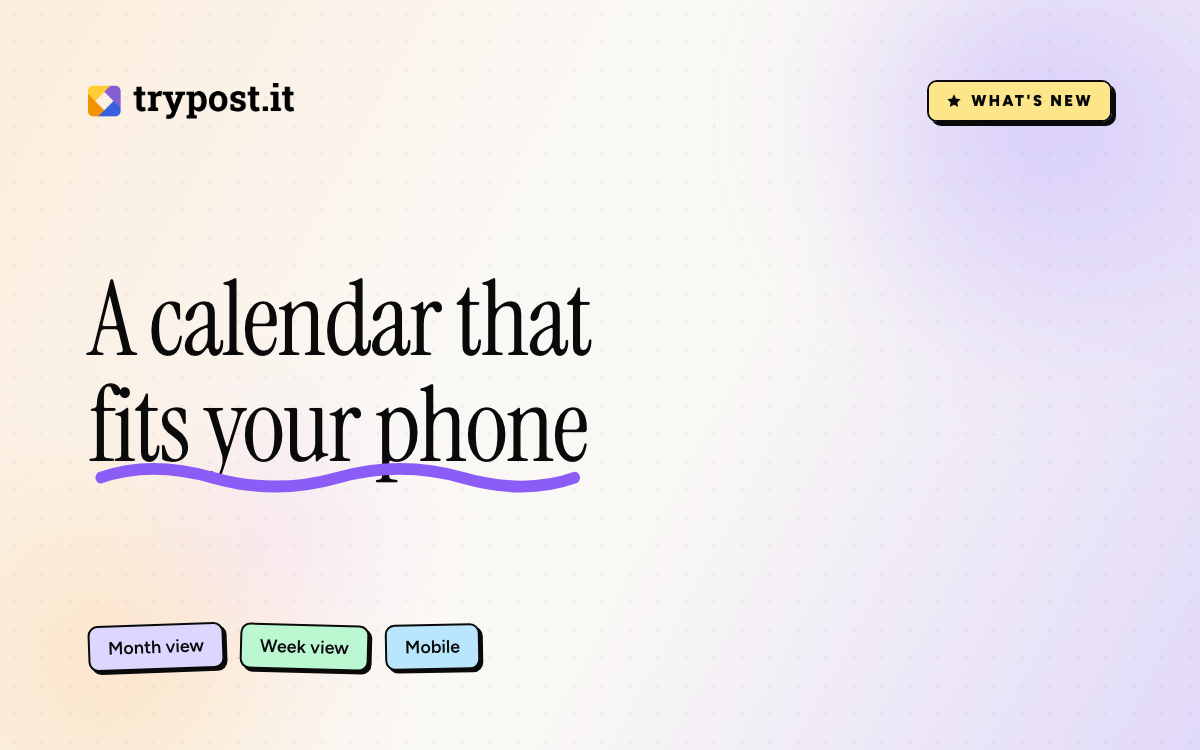
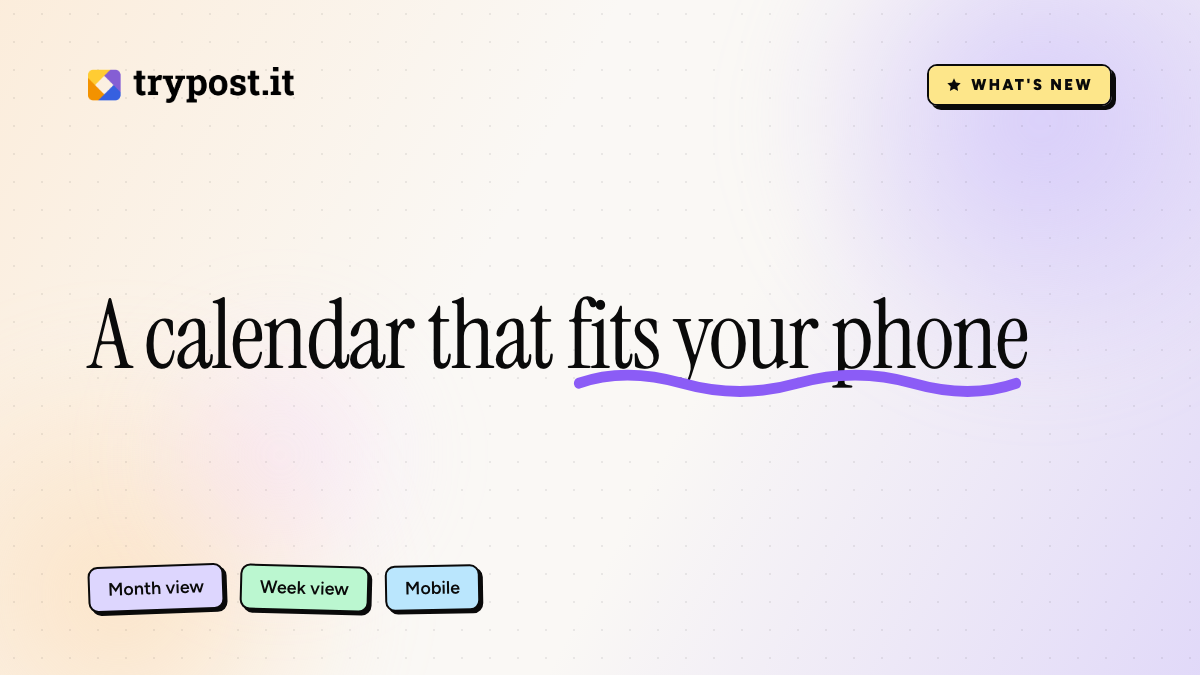
Make changelog covers 16:9
Render covers at 1200x675, show them in aspect-video slots, and have
changelog:sync refuse a cover that is not 16:9. The /changelog command
spells out the cover size and checks.

diff --git a/.claude/release-assets/changelog-cover.template.html b/.claude/release-assets/changelog-cover.template.html
@@ -6,7 +6,7 @@
 <link rel="preconnect" href="https://fonts.gstatic.com" crossorigin />
 <link href="https://fonts.googleapis.com/css2?family=Figtree:wght@300..900&family=Instrument+Serif:ital@0;1&family=JetBrains+Mono:wght@400;500;700&display=swap" rel="stylesheet" />
 <style>
-  /* TryPost changelog cover (1200x750, the 8:5 card/modal slot). Same brand
+  /* TryPost changelog cover (1200x675, the 16:9 card/modal slot). Same brand
      system as the release thumbnail; larger headline, no version.
      TryPost brand thumbnail — mirrors the marketing-site hero / OG image:
      warm cream + ink + signature violet, soft peach→lavender wash, ink
@@ -14,7 +14,7 @@
      and ink-bordered sticker cards with Gumroad-style solid offset shadows.
      Tokens from trypost-site assets/css/tailwind.css. */
   * { margin: 0; padding: 0; box-sizing: border-box; }
-  html, body { width: 1200px; height: 750px; }
+  html, body { width: 1200px; height: 675px; }
   body {
     font-family: 'Figtree', ui-sans-serif, system-ui, sans-serif;
     position: relative;
@@ -48,7 +48,7 @@
   }
   .frame {
     position: relative; z-index: 1;
-    height: 100%; padding: 80px 88px;
+    height: 100%; padding: 64px 88px;
     display: flex; flex-direction: column; justify-content: space-between;
   }
   .top { display: flex; align-items: center; justify-content: space-between; }
@@ -80,7 +80,7 @@
   .body { max-width: 1000px; }
   h1 {
     font-family: 'Instrument Serif', Georgia, serif;
-    font-weight: 400; font-size: 104px; line-height: 1.02;
+    font-weight: 400; font-size: 96px; line-height: 1.02;
     letter-spacing: -0.02em; color: #0a0a0a; text-wrap: balance;
   }
   /* Emphasis phrase carrying the hand-drawn squiggle. */

diff --git a/resources/js/components/changelog/ChangelogDialog.vue b/resources/js/components/changelog/ChangelogDialog.vue
@@ -135,7 +135,7 @@ watch(activeEntry, (entry) => {
                 <img
                     :src="activeEntry.cover_url"
                     alt=""
-                    class="aspect-[8/5] w-full rounded-xl object-cover"
+                    class="aspect-video w-full rounded-xl object-cover"
                 />
                 <div class="flex flex-col gap-1">
                     <div
@@ -233,7 +233,7 @@ watch(activeEntry, (entry) => {
                             <img
                                 :src="entry.cover_url"
                                 alt=""
-                                class="aspect-[8/5] w-36 shrink-0 rounded-lg object-cover"
+                                class="aspect-video w-36 shrink-0 rounded-lg object-cover"
                             />
                         </button>
                     </div>

diff --git a/resources/js/components/changelog/ChangelogCard.vue b/resources/js/components/changelog/ChangelogCard.vue
@@ -35,7 +35,7 @@ const openLatestEntry = (): void => {
                 <img
                     :src="entry.cover_url"
                     alt=""
-                    class="aspect-[8/5] w-full object-cover transition-transform duration-300 ease-out motion-safe:group-hover/changelog:scale-105"
+                    class="aspect-video w-full object-cover transition-transform duration-300 ease-out motion-safe:group-hover/changelog:scale-105"
                     data-testid="changelog-card-cover"
                 />
                 <span

diff --git a/tests/Feature/Commands/SyncChangelogTest.php b/tests/Feature/Commands/SyncChangelogTest.php
@@ -5,6 +5,7 @@ declare(strict_types=1);
 use App\Enums\Changelog\Tag;
 use App\Models\ChangelogEntry;
 use App\Models\ChangelogEntryView;
+use Illuminate\Http\UploadedFile;
 use Illuminate\Support\Facades\File;
 use Illuminate\Support\Facades\Storage;
 use Illuminate\Support\Str;
@@ -96,6 +97,7 @@ test('an invalid entry fails the sync, names its folder and writes nothing', fun
     'unknown tag' => [fn (string $folder) => File::put("{$folder}/entry.md", "---\ntitle: Second\ndate: 2026-10-02\ntags: [new, hot]\n---\n\nBody.\n")],
     'repeated tag' => [fn (string $folder) => File::put("{$folder}/entry.md", "---\ntitle: Second\ndate: 2026-10-02\ntags: [new, new]\n---\n\nBody.\n")],
     'empty body' => [fn (string $folder) => File::put("{$folder}/entry.md", "---\ntitle: Second\ndate: 2026-10-02\n---\n")],
+    'cover not 16:9' => [fn (string $folder) => File::put("{$folder}/cover.png", UploadedFile::fake()->image('cover.png', 1200, 750)->getContent())],
     'missing cover' => [fn (string $folder) => File::delete("{$folder}/cover.png")],
     'missing entry file' => [fn (string $folder) => File::delete("{$folder}/entry.md")],
 ]);

diff --git a/app/Actions/Changelog/SyncChangelogEntries.php b/app/Actions/Changelog/SyncChangelogEntries.php
@@ -19,7 +19,7 @@ use League\CommonMark\Extension\FrontMatter\FrontMatterParser;
 
 /**
  * Mirrors the Markdown entries under `changelog/<slug>/` (entry.md + cover.png)
- * into `changelog_entries`. Every folder is validated before anything is
+ * into `changelog_entries`. The cover must be 16:9. Every folder is validated before anything is
  * written, covers go to the default disk only when their hash changed, and an
  * entry whose folder is gone is deleted with its cover.
  */
@@ -85,6 +85,12 @@ class SyncChangelogEntries
 
         if (! File::exists($coverFile)) {
             throw new InvalidArgumentException("Changelog entry [{$slug}] has no cover.png.");
+        }
+
+        [$coverWidth, $coverHeight] = getimagesize($coverFile) ?: [0, 0];
+
+        if ($coverWidth === 0 || $coverWidth * 9 !== $coverHeight * 16) {
+            throw new InvalidArgumentException("Changelog entry [{$slug}] needs a 16:9 cover.png (1200x675), got {$coverWidth}x{$coverHeight}.");
         }
 
         try {

diff --git a/.claude/commands/changelog.md b/.claude/commands/changelog.md
@@ -14,7 +14,7 @@ Feature to announce: $ARGUMENTS
 ```
 changelog/<YYYY-MM-DD>-<slug>/
   entry.md     front matter + Markdown body
-  cover.png    1200×750 cover (8:5, the card and modal slot)
+  cover.png    1200×675 cover (16:9, the card and modal slot)
 ```
 
 ```markdown
@@ -29,7 +29,8 @@ Body in Markdown.
 
 - The folder name is the slug and never changes once synced (views are keyed to the row it creates).
 - `date` is the day users see. A future date hides the entry until that day (UTC).
-- Users only see entries dated on or after the day they signed up.
+- The sidebar card announces only the newest entry dated on or after the user's signup day; the
+  "What's New" list shows every published entry.
 - Entry content is **English only**. Never add lang keys for it.
 
 ## Workflow
@@ -64,12 +65,17 @@ Run the text through the `humanizer` skill before saving.
 
 ### Step 3 — Render the cover
 
+The cover is **always 16:9, 1200×675 PNG**. The sidebar card, the list thumbnail and the detail
+all show it in a 16:9 slot (`aspect-video`), and `changelog:sync` refuses any `cover.png` that is
+not 16:9. Always render it with the command below; never hand-make, crop or resize a cover, and
+never change `--width`, `--height` or `--scale`.
+
 Pick a short headline (the title or a tighter version of it), one phrase in it to underline, and
 two or three theme chips:
 
 ```bash
 node .claude/release-assets/render-thumbnail.mjs \
-  --template changelog-cover.template.html --width 1200 --height 750 --scale 1 \
+  --template changelog-cover.template.html --width 1200 --height 675 --scale 1 \
   --badge "What's new" \
   --headline "Music, collaborators and trial reels" \
   --underline "trial reels" \
@@ -77,7 +83,12 @@ node .claude/release-assets/render-thumbnail.mjs \
   --out changelog/<YYYY-MM-DD>-<slug>/cover.png
 ```
 
-Open the PNG and check that the headline fits on two or three lines.
+Open the PNG and check it:
+
+- The size is 1200×675 (`sips -g pixelWidth -g pixelHeight <path>`).
+- The headline fits on one or two lines (about 35 characters at most) and the underlined phrase
+  sits on a single line. Shorten the headline rather than letting it run to a third line.
+- Two or three theme chips, one or two words each.
 
 ### Step 4 — Validate
 
@@ -85,7 +96,8 @@ Open the PNG and check that the headline fits on two or three lines.
 php artisan changelog:sync
 ```
 
-It fails loud, naming the folder, when the front matter is invalid or the cover is missing.
+It fails loud, naming the folder, when the front matter is invalid, the cover is missing or the
+cover is not 16:9.
 Locally it also uploads the cover to the default disk, so the entry shows in the sidebar card.
 
 ### Step 5 — Hand over

diff --git a/AGENTS.md b/AGENTS.md
@@ -760,11 +760,11 @@ entry, and a "What's New" modal (Help menu) listing every published entry.
 
 - **Entries are Markdown files in the repo**, `changelog/<YYYY-MM-DD>-<slug>/entry.md`
   (front matter `title`, `date`, optional `tags` from `App\Enums\Changelog\Tag`: `new`, `improved`, `fixed`, `beta`, shown above the title with a fixed color each in `ChangelogTagBadge.vue`) plus `cover.png`
-  (1200×750). There is no admin panel. Write them with the `/changelog` command.
+  (1200×675, 16:9). There is no admin panel. Write them with the `/changelog` command.
 - **`php artisan changelog:sync` runs on every deploy** (after `migrate`). It upserts
   `changelog_entries` by slug, uploads the cover to `changelog/<slug>.png` on the
   default disk only when its hash changed, deletes rows whose folder is gone, and fails
-  loud without writing anything when one folder is invalid. Never edit the rows by hand,
+  loud without writing anything when one folder is invalid (a cover that is not 16:9 counts as invalid). Never edit the rows by hand,
   and never rename a synced folder (its views are keyed to the row).
 - **The whole feature is English only** (owner decision 2026-10-14): the entries, the tag
   labels (`Tag::label()`), the modal title, its empty state and the "What's New" menu item
